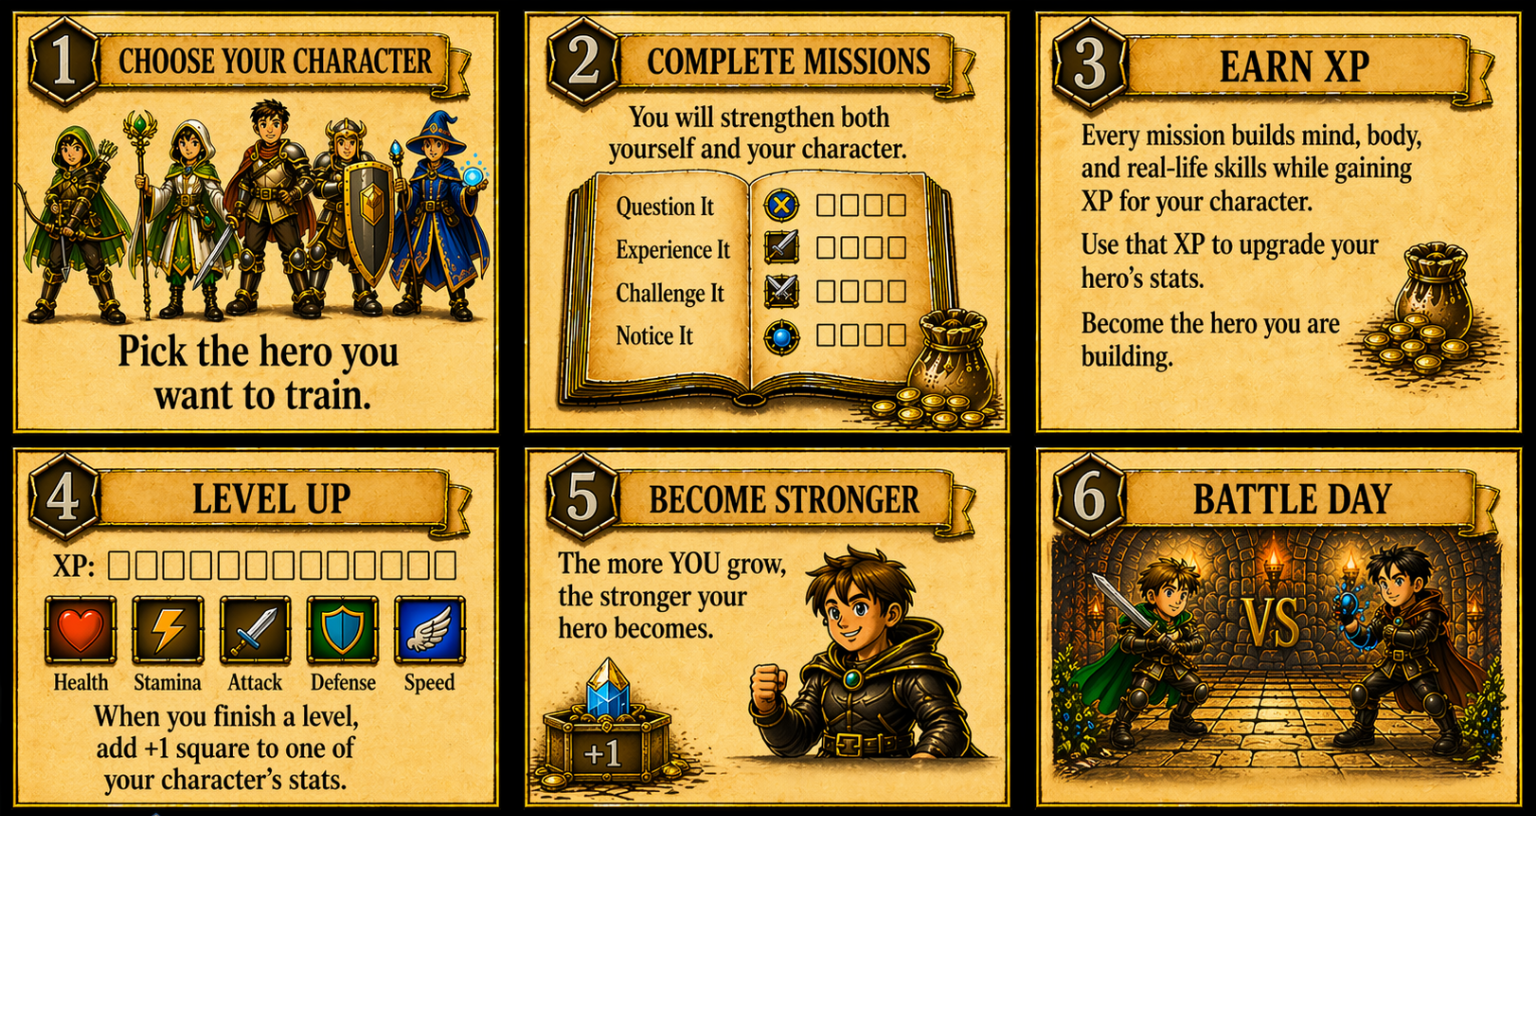
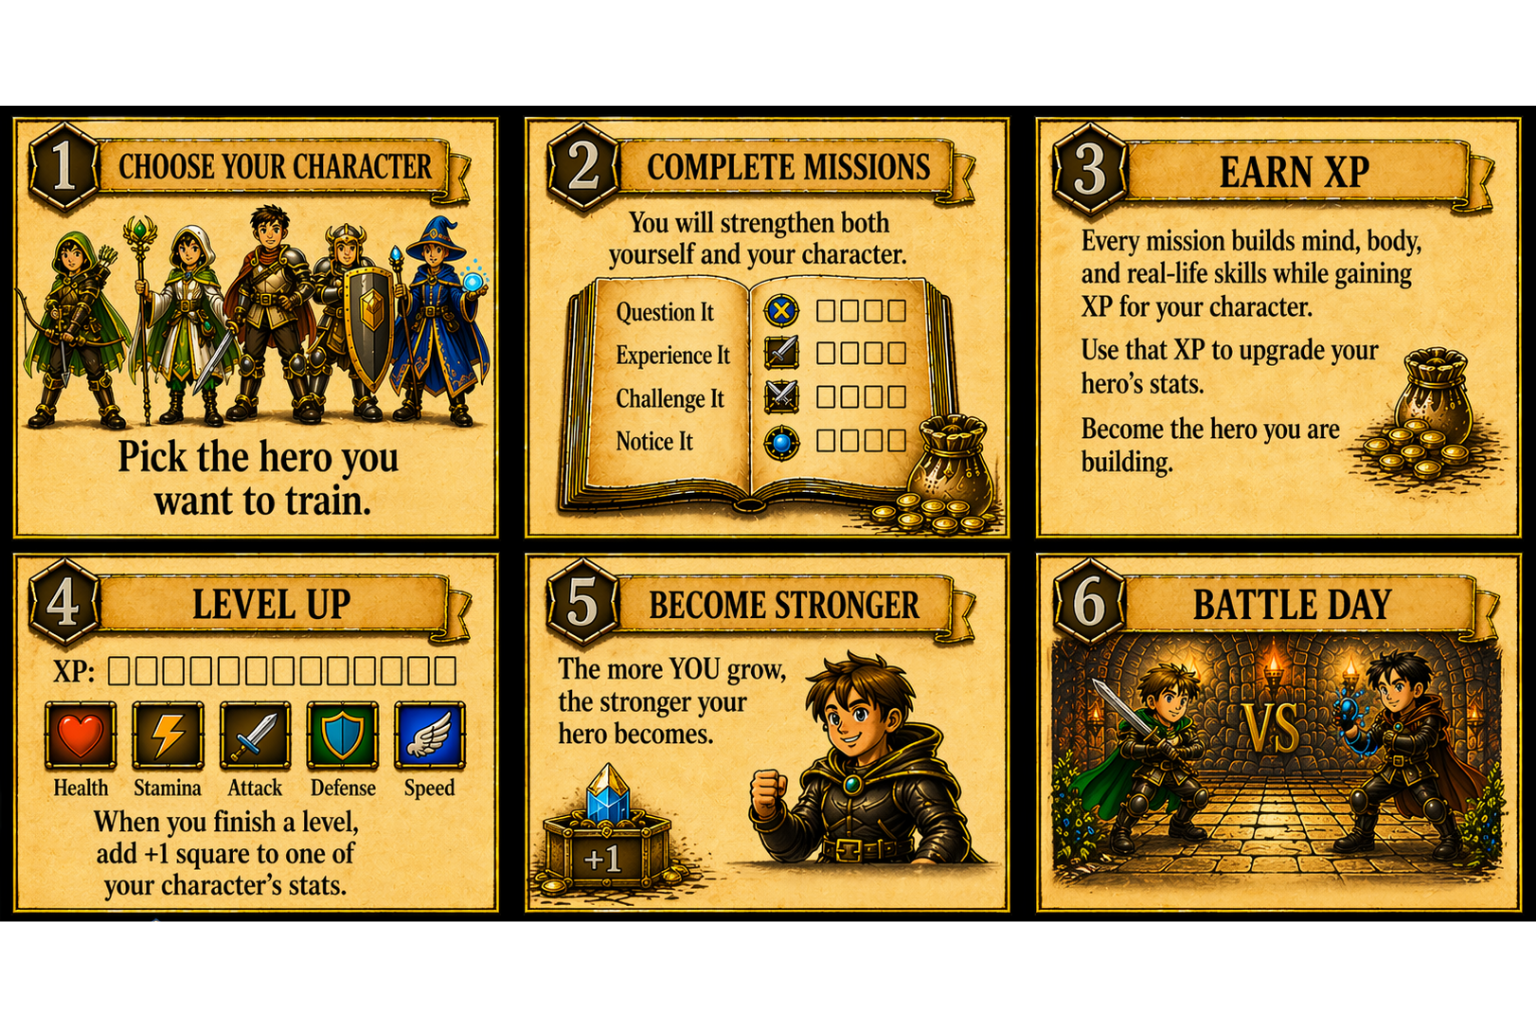
upload photos for sidebar

diff --git a/how-it-works.html b/how-it-works.html
@@ -72,7 +72,7 @@
 									</p>
 									<div class="row gtr-50">
 										<div class="col-4">
-											<a href="#" class="image fit"><img src="images/pic10.jpg" alt="" /></a>
+											<a href="#" class="image fit"><img src="images/option1.png" alt="Speed goes first" /></a>
 										</div>
 										<div class="col-8">
 											<h4>1. Speed Goes First</h4>
@@ -81,7 +81,7 @@
 											</p>
 										</div>
 										<div class="col-4">
-											<a href="#" class="image fit"><img src="images/pic11.jpg" alt="" /></a>
+											<a href="#" class="image fit"><img src="images/option2.png" alt="Use stamina carefully" /></a>
 										</div>
 										<div class="col-8">
 											<h4>2. Use Stamina Carefully</h4>
@@ -90,7 +90,7 @@
 											</p>
 										</div>
 										<div class="col-4">
-											<a href="#" class="image fit"><img src="images/pic12.jpg" alt="" /></a>
+											<a href="#" class="image fit"><img src="images/option3.png" alt="Attack vs. Defense" /></a>
 										</div>
 										<div class="col-8">
 											<h4>3. Attack vs. Defense</h4>
@@ -99,7 +99,7 @@
 											</p>
 										</div>
 										<div class="col-4">
-											<a href="#" class="image fit"><img src="images/pic13.jpg" alt="" /></a>
+											<a href="#" class="image fit"><img src="images/option4.png" alt="Focus or Self-Heal" /></a>
 										</div>
 										<div class="col-8">
 											<h4>4. Focus or Self-Heal</h4>
@@ -108,7 +108,7 @@
 											</p>
 										</div>
 										<div class="col-4">
-											<a href="#" class="image fit"><img src="images/pic14.jpg" alt="" /></a>
+											<a href="#" class="image fit"><img src="images/option5.png" alt="Strategy Beats Randomness" /></a>
 										</div>
 										<div class="col-8">
 											<h4>5. Strategy Beats Randomness</h4>
